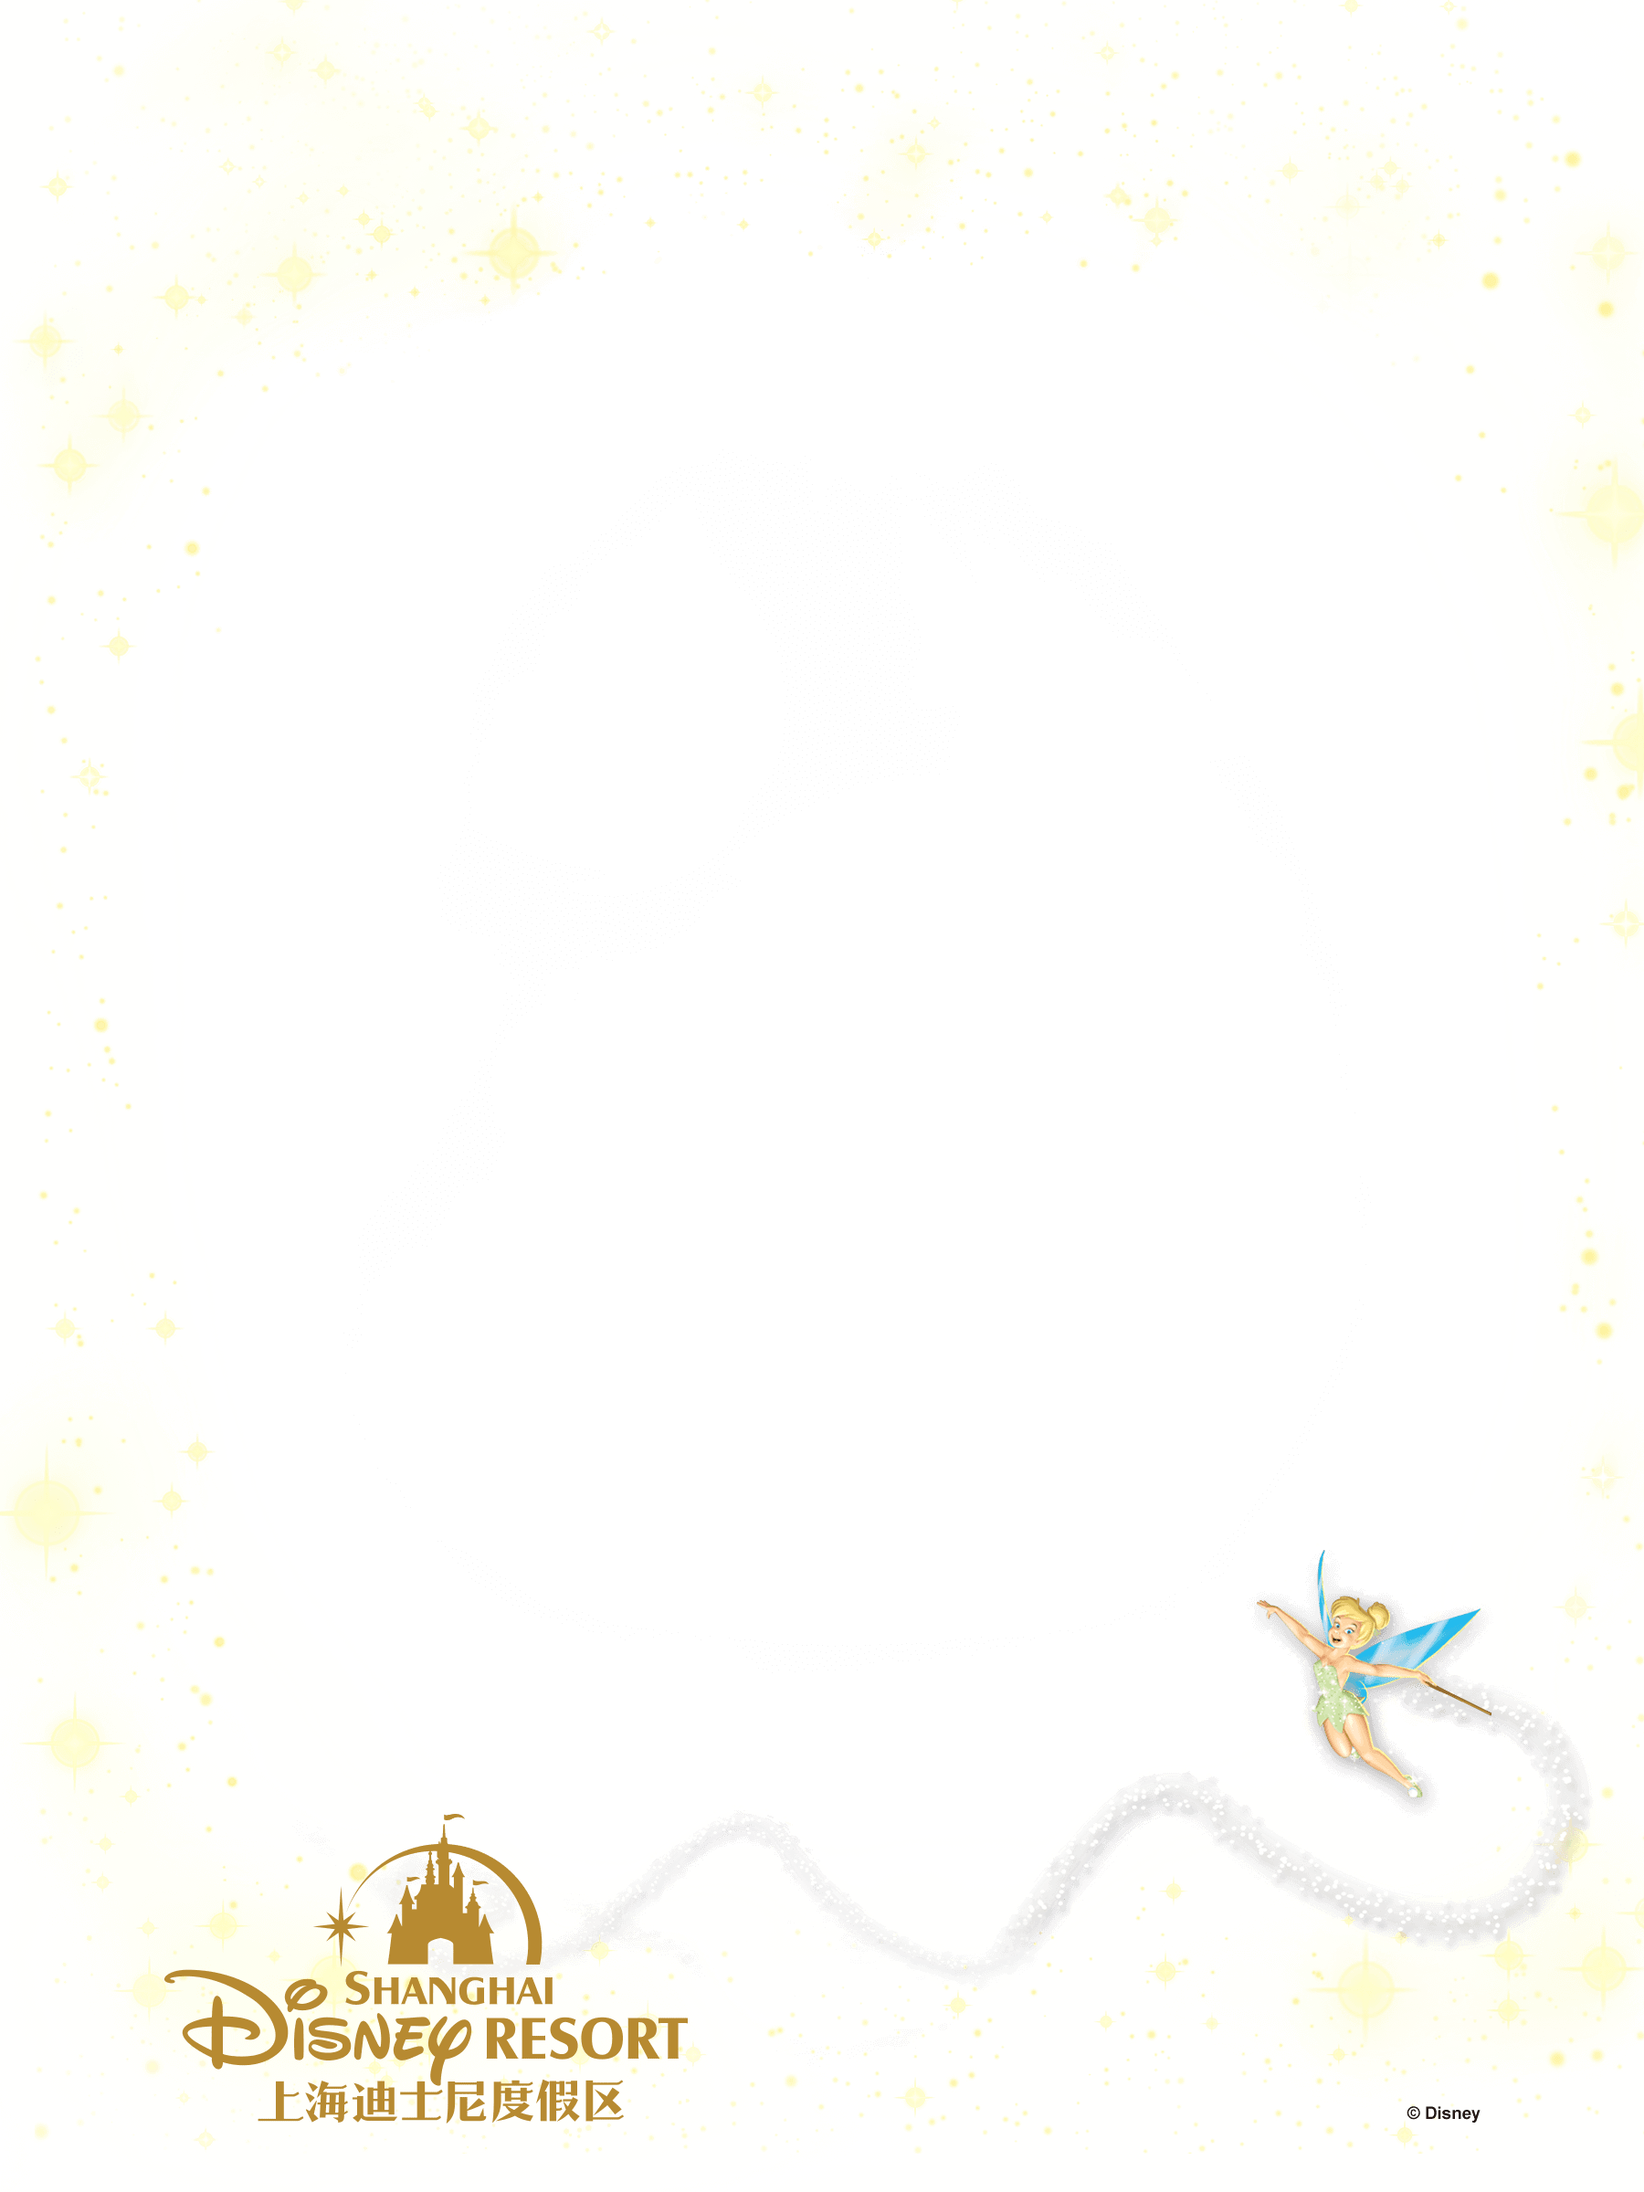
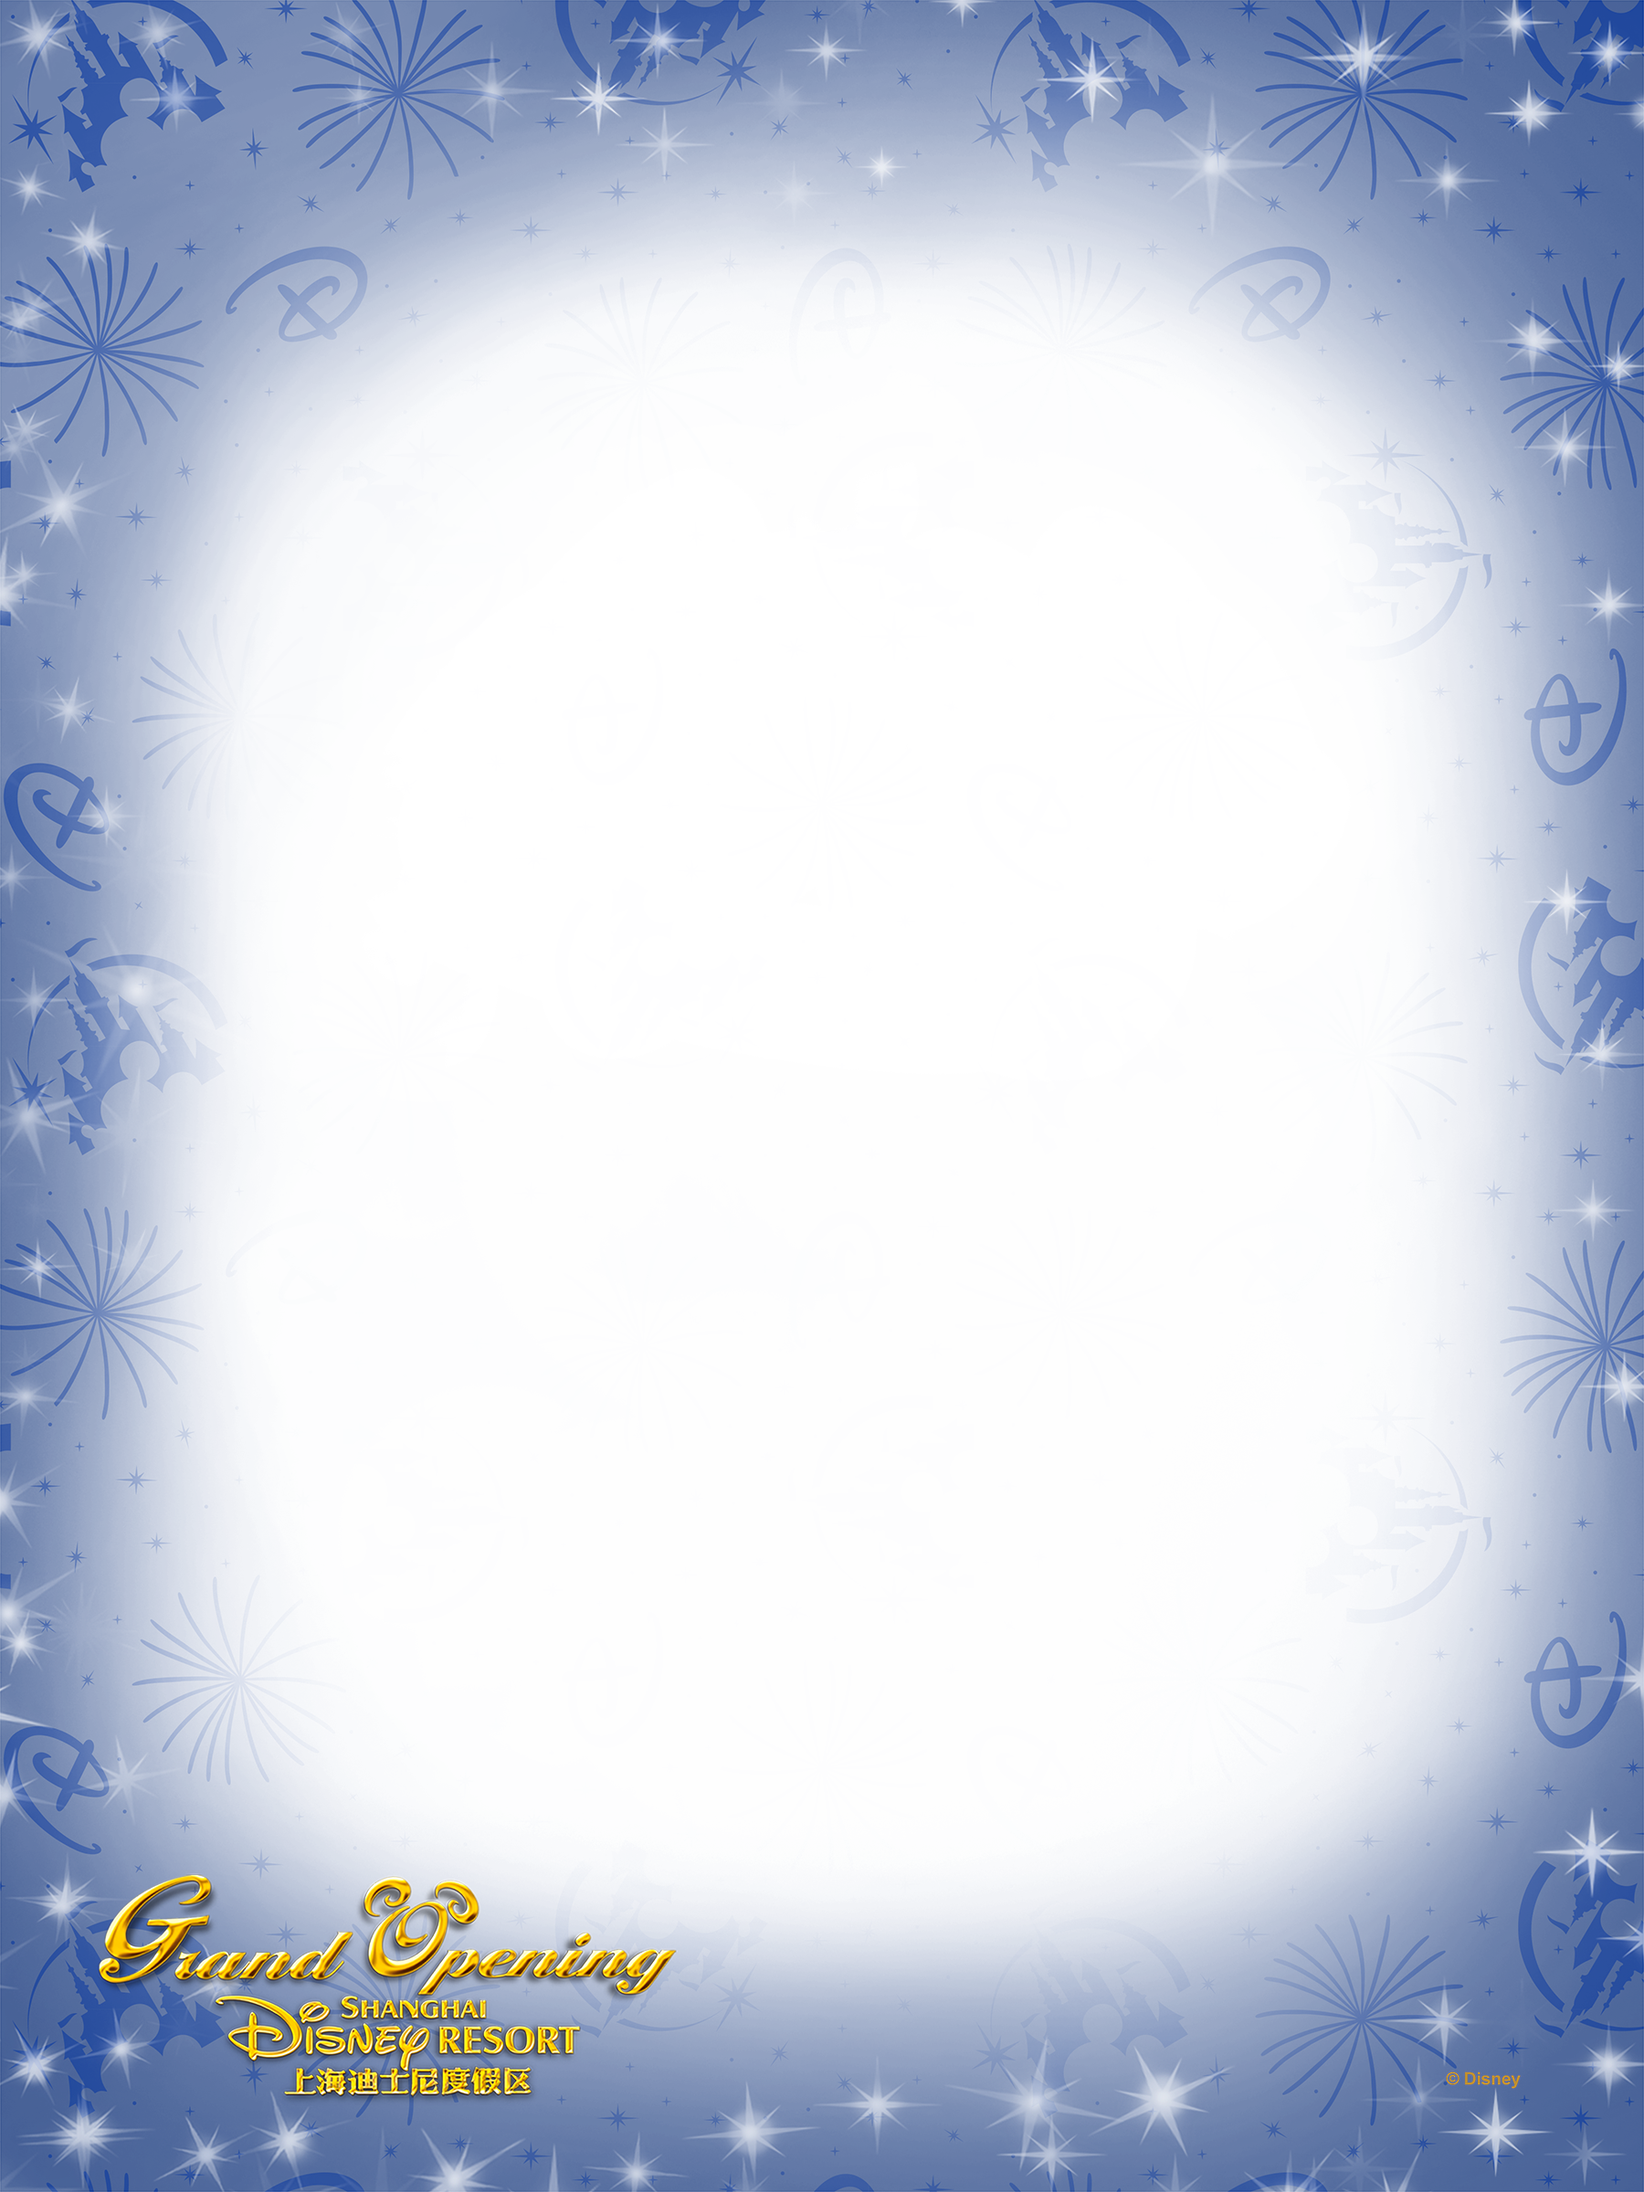
1、修改边框素材 2、海外支付方式分成三种 3、推送 取消注册出错问题修改 4、努比亚NX403A手机无法创建文件夹问题修改

diff --git a/app/src/main/java/com/pictureair/photopass/activity/PaymentOrderActivity.java b/app/src/main/java/com/pictureair/photopass/activity/PaymentOrderActivity.java
@@ -51,13 +51,17 @@ public class PaymentOrderActivity extends BaseActivity implements OnClickListene
 
     private RelativeLayout zfbLayout;
     private RelativeLayout ylLayout;
-    private RelativeLayout paypalLayout;
+    private RelativeLayout visaLayout;
     private RelativeLayout wechatLayout;
+    private RelativeLayout masterCardLayout;
+    private RelativeLayout jcbLayout;
 
     private ImageView zfButton;
     private ImageView yhkButton;
-    private ImageView paypalButton;
+    private ImageView visaButton;
     private ImageView wechatButton;
+    private ImageView masterCardButton;
+    private ImageView jcbButton;
 
     public static final int RQF_SUCCESS = 1;
     public static final int RQF_CANCEL = 2;
@@ -274,11 +278,15 @@ public class PaymentOrderActivity extends BaseActivity implements OnClickListene
         // 支付方式选择
         zfButton = (ImageView) findViewById(R.id.imageButton1_zfb);
         yhkButton = (ImageView) findViewById(R.id.imageButton2_yhk);
-        paypalButton = (ImageView) findViewById(R.id.imageButton3_paypal);
+        visaButton = (ImageView) findViewById(R.id.imageButton_payvisa);
+        masterCardButton = (ImageView) findViewById(R.id.imageButton_paymc);
+        jcbButton = (ImageView) findViewById(R.id.imageButton_payjcb);
         wechatButton = (ImageView) findViewById(R.id.imageButton2_weixin);
         zfbLayout = (RelativeLayout) findViewById(R.id.zfb);
         ylLayout = (RelativeLayout) findViewById(R.id.yl);
-        paypalLayout = (RelativeLayout) findViewById(R.id.paypal);
+        visaLayout = (RelativeLayout) findViewById(R.id.paytype_visa);
+        masterCardLayout = (RelativeLayout) findViewById(R.id.paytype_mc);
+        jcbLayout = (RelativeLayout) findViewById(R.id.paytype_jcb);
         wechatLayout = (RelativeLayout) findViewById(R.id.weixin);
         pictureAirDbManager = new PictureAirDbManager(MyApplication.getInstance());
         dialog = CustomProgressDialog.create(PaymentOrderActivity.this, getString(R.string.is_loading), false, null);
@@ -295,12 +303,16 @@ public class PaymentOrderActivity extends BaseActivity implements OnClickListene
         sbmtButton.setOnClickListener(this);
         yhkButton.setImageResource(R.drawable.sele);
         zfButton.setImageResource(R.drawable.nosele);
-        paypalButton.setImageResource(R.drawable.nosele);
+        visaButton.setImageResource(R.drawable.nosele);
+        masterCardButton.setImageResource(R.drawable.nosele);
+        jcbButton.setImageResource(R.drawable.nosele);
         wechatButton.setImageResource(R.drawable.nosele);
 
         zfbLayout.setOnClickListener(this);
         ylLayout.setOnClickListener(this);
-        paypalLayout.setOnClickListener(this);
+        visaLayout.setOnClickListener(this);
+        masterCardLayout.setOnClickListener(this);
+        jcbLayout.setOnClickListener(this);
         wechatLayout.setOnClickListener(this);
 
         if (getIntent().getStringExtra("flag") == null) {
@@ -402,7 +414,9 @@ public class PaymentOrderActivity extends BaseActivity implements OnClickListene
                 payType = 0;
                 zfButton.setImageResource(R.drawable.sele);
                 yhkButton.setImageResource(R.drawable.nosele);
-                paypalButton.setImageResource(R.drawable.nosele);
+                visaButton.setImageResource(R.drawable.nosele);
+                masterCardButton.setImageResource(R.drawable.nosele);
+                jcbButton.setImageResource(R.drawable.nosele);
                 wechatButton.setImageResource(R.drawable.nosele);
                 PictureAirLog.v(TAG, "ZFB");
                 break;
@@ -411,16 +425,40 @@ public class PaymentOrderActivity extends BaseActivity implements OnClickListene
                 payType = 1;
                 zfButton.setImageResource(R.drawable.nosele);
                 yhkButton.setImageResource(R.drawable.sele);
-                paypalButton.setImageResource(R.drawable.nosele);
+                visaButton.setImageResource(R.drawable.nosele);
+                masterCardButton.setImageResource(R.drawable.nosele);
+                jcbButton.setImageResource(R.drawable.nosele);
                 wechatButton.setImageResource(R.drawable.nosele);
                 PictureAirLog.v(TAG, "YL");
                 break;
 
-            case R.id.paypal:// paypal支付
+            case R.id.paytype_visa:// paypal支付
                 payType = 6;
                 zfButton.setImageResource(R.drawable.nosele);
                 yhkButton.setImageResource(R.drawable.nosele);
-                paypalButton.setImageResource(R.drawable.sele);
+                visaButton.setImageResource(R.drawable.sele);
+                masterCardButton.setImageResource(R.drawable.nosele);
+                jcbButton.setImageResource(R.drawable.nosele);
+                wechatButton.setImageResource(R.drawable.nosele);
+                PictureAirLog.v(TAG, "PAYPAL");
+                break;
+            case R.id.paytype_mc:// paypal支付
+                payType = 6;
+                zfButton.setImageResource(R.drawable.nosele);
+                yhkButton.setImageResource(R.drawable.nosele);
+                visaButton.setImageResource(R.drawable.nosele);
+                masterCardButton.setImageResource(R.drawable.sele);
+                jcbButton.setImageResource(R.drawable.nosele);
+                wechatButton.setImageResource(R.drawable.nosele);
+                PictureAirLog.v(TAG, "PAYPAL");
+                break;
+            case R.id.paytype_jcb:// paypal支付
+                payType = 6;
+                zfButton.setImageResource(R.drawable.nosele);
+                yhkButton.setImageResource(R.drawable.nosele);
+                visaButton.setImageResource(R.drawable.nosele);
+                masterCardButton.setImageResource(R.drawable.nosele);
+                jcbButton.setImageResource(R.drawable.sele);
                 wechatButton.setImageResource(R.drawable.nosele);
                 PictureAirLog.v(TAG, "PAYPAL");
                 break;
@@ -429,7 +467,9 @@ public class PaymentOrderActivity extends BaseActivity implements OnClickListene
                 payType = 7;
                 zfButton.setImageResource(R.drawable.nosele);
                 yhkButton.setImageResource(R.drawable.nosele);
-                paypalButton.setImageResource(R.drawable.nosele);
+                visaButton.setImageResource(R.drawable.nosele);
+                masterCardButton.setImageResource(R.drawable.nosele);
+                jcbButton.setImageResource(R.drawable.nosele);
                 wechatButton.setImageResource(R.drawable.sele);
                 PictureAirLog.v(TAG, "WECHAT");
                 break;

diff --git a/app/src/main/java/com/pictureair/photopass/activity/EditPhotoActivity.java b/app/src/main/java/com/pictureair/photopass/activity/EditPhotoActivity.java
@@ -443,6 +443,27 @@ public class EditPhotoActivity extends BaseActivity implements OnClickListener, 
 		frameInfo.frameOriginalPathPortrait = Scheme.ASSETS.wrap("frame/frame_v_4.png");
 		frameInfos.add(frameInfo);
 
+		frameInfo = new FrameOrStikerInfo();
+		frameInfo.frameThumbnailPathH160 = Scheme.ASSETS.wrap("frame/frame_h_5t.png");
+		frameInfo.frameThumbnailPathV160 = Scheme.ASSETS.wrap("frame/frame_v_5t.png");
+		frameInfo.frameOriginalPathLandscape = Scheme.ASSETS.wrap("frame/frame_h_5.png");
+		frameInfo.frameOriginalPathPortrait = Scheme.ASSETS.wrap("frame/frame_v_5.png");
+		frameInfos.add(frameInfo);
+
+		frameInfo = new FrameOrStikerInfo();
+		frameInfo.frameThumbnailPathH160 = Scheme.ASSETS.wrap("frame/frame_h_6t.png");
+		frameInfo.frameThumbnailPathV160 = Scheme.ASSETS.wrap("frame/frame_v_6t.png");
+		frameInfo.frameOriginalPathLandscape = Scheme.ASSETS.wrap("frame/frame_h_6.png");
+		frameInfo.frameOriginalPathPortrait = Scheme.ASSETS.wrap("frame/frame_v_6.png");
+		frameInfos.add(frameInfo);
+
+		frameInfo = new FrameOrStikerInfo();
+		frameInfo.frameThumbnailPathH160 = Scheme.ASSETS.wrap("frame/frame_h_7t.png");
+		frameInfo.frameThumbnailPathV160 = Scheme.ASSETS.wrap("frame/frame_v_7t.png");
+		frameInfo.frameOriginalPathLandscape = Scheme.ASSETS.wrap("frame/frame_h_7.png");
+		frameInfo.frameOriginalPathPortrait = Scheme.ASSETS.wrap("frame/frame_v_7.png");
+		frameInfos.add(frameInfo);
+
 //		frameInfo = new FrameOrStikerInfo();
 //		frameInfo.frameThumbnailPathH160 = Scheme.ASSETS.wrap("frame/frame_h_5t.png");
 //		frameInfo.frameThumbnailPathV160 = Scheme.ASSETS.wrap("frame/frame_v_5t.png");

diff --git a/app/src/main/java/com/pictureair/photopass/zxing/decoding/DecodeHandler.java b/app/src/main/java/com/pictureair/photopass/zxing/decoding/DecodeHandler.java
@@ -230,9 +230,14 @@ final class DecodeHandler extends Handler {
      */
     private String doOcr(Bitmap bitmap, String language) {
         PictureAirLog.out("start init--->ocr");
+        File root = new File(Common.PHOTO_SAVE_PATH);
         if (baseApi == null) {//为空
             baseApi = new TessBaseAPI();
-            baseApi.init(Common.PHOTO_SAVE_PATH, language);
+            if (root.exists() && root.isDirectory()) {
+                baseApi.init(Common.PHOTO_SAVE_PATH, language);
+            } else {
+                return "";
+            }
         }
         PictureAirLog.out("end init--->ocr");
         File tessdata = new File(Common.PHOTO_SAVE_PATH + "tessdata");

diff --git a/app/src/main/java/com/pictureair/photopass/activity/OrderDetailActivity.java b/app/src/main/java/com/pictureair/photopass/activity/OrderDetailActivity.java
@@ -85,8 +85,8 @@ public class OrderDetailActivity extends BaseActivity implements OnClickListener
                 paymethod = getResources().getString(R.string.yhkzf);
                 break;
 
-            case 6:
-                paymethod = getResources().getString(R.string.paypalzf);
+            case 8:
+                paymethod = getResources().getString(R.string.other_ways);
                 break;
 
             case 7:
